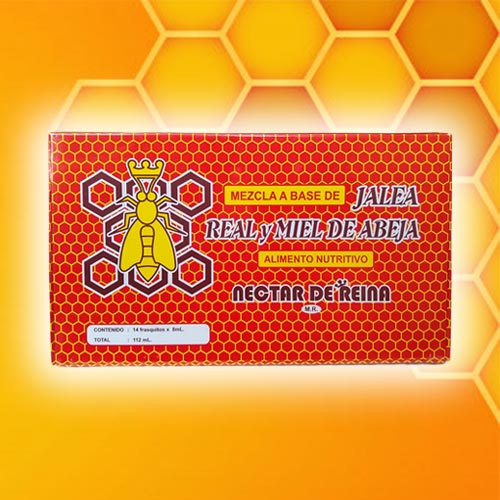
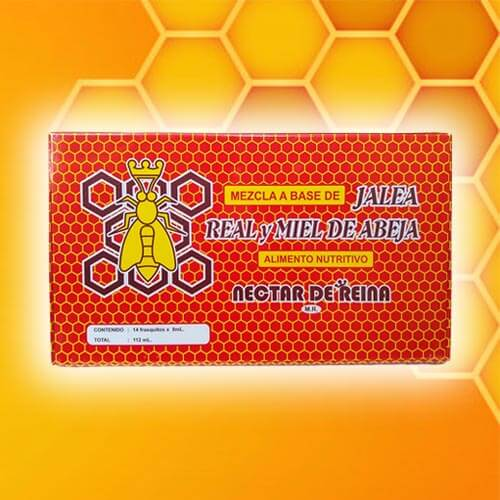
optimize images and add information

diff --git a/src/components/About.js b/src/components/About.js
@@ -12,8 +12,9 @@ export class About extends Component {
                     </div>
                     <div className="row">
                         <div className="col mx-3">
-                        <p>Apireyna EIRL es una empresa familiar que surgió en los años 90 en la ciudad de Chiclayo, en la zona norte del Perú. Su fundador, Don Ruperto Fuentes Verona, ferreñafano de nacimiento, encontró en los productos apícolas un negocio interesante que en aquellos años no era muy explotado.</p>          
-                        <p>Empezó con la comercialización de la miel de abejas y poco a poco sumó a este negocio otros productos derivados como la cera de abejas. De ahí en adelante se dedicó a la comercialización de miel y cera de abejas, acopiándola de diferentes zonas del norte del país y ofreciéndola a diversos clientes de la capital. Con el correr de los años fue abriéndose paso en las grandes empresas y laboratorios limeños que empezaron a requerir de sus productos.  Es así como empiezan la construcción de una planta de procesamiento apícola para la miel y cera de abejas y cumplir así con los altos estándares de calidad que pedían sus nuevos clientes.</p>
+                        <p><strong>Apireyna EIRL</strong> es una empresa familiar que surgió en los años 90 en la ciudad de Chiclayo, en la zona norte del Perú. Su fundador, Don Ruperto Fuentes Verona, ferreñafano de nacimiento, fue atraído por los productos provenientes de las abejas y poco a poco empezó una actividad que se convirtió en su pasión.</p>          
+                        <p>Empezó con la venta de la miel de abejas y progresivamente sumó a esta actividad  otros productos derivados como la cera de abejas y el polen de abejas, acopiándola de diferentes zonas del norte del país y ofreciéndola a diversos clientes de la capital. Con el correr de los años fue abriéndose paso en importantes empresas y tiendas naturistas que empezaron a requerir sus productos.</p>
+                        <p>Es así como empiezan la construcción de una planta de procesamiento apícola para cumplir así con los nuevos estándares de calidad que exigían sus potenciales clientes.</p>
                         </div>
                     </div>
                 </div>
@@ -26,8 +27,8 @@ export class About extends Component {
                     </div>
                     <div className="row">
                         <div className="col mx-3">          
-                        <p>Actualmente la legislación sanitaria del Perú obliga a que toda planta de alimentos debe tener implementado el Sistema HACCP para ser autorizada, basado en el cumplimiento de la norma RM 449-2006/ MINSA “Norma sanitaria para la aplicación del sistema HACCP en la fabricación de alimentos y bebidas; y la modificación del DS007-98 SA e Incorporación del DS 004-2014 SA Art.58B para certificación de Principios Generales de Higiene (PGH)”. Es por eso que APIREYNA EIRL basa sus servicios en mantener y cumplir los estándares de calidad que se enmarcan dentro de los estándares higiénicos sanitarios y de buenas prácticas de manufactura requeridos por las normas nacionales e internacionales.</p>
-                        <p>En la actualidad los clientes son más demandantes en cuanto a sus requerimientos de certificaciones, gestión de la calidad e inocuidad, es por eso que se presentó el proyecto en el concurso para la Mejora de la Calidad: “IMPLEMENTACION Y CERTIFICACION DEL SISTEMA DE GESTION DE LA CALIDAD HACCP EN LAS LINEAS DE PRODUCTOS APÍCOLAS: MIELES Y CERAS”, en el cual <strong>APIREYNA EIRL fue uno de los ganadores</strong> del cofinanciamiento y en junio del 2017 se dio inicio al convenio M° 129-FIDECOM-INNOVATEPERU-CMCEI-2017.</p>
+                        <p>Para atender un mercado y clientes más demandantes en cuanto a los requerimientos de certificaciones, gestión de la calidad e inocuidad, <strong>Apireyna EIRL</strong> se presentó al concurso para la Mejora de la Calidad de Innóvate Perú con el proyecto “Implementación y certificación del sistema de gestión de la calidad HACCP en las líneas de productos apícolas: mieles y ceras” y fue uno de los ganadores obteniendo el cofinanciamiento e iniciando en junio del 2017 el convenio M°129-FIDECOM-INNOVATEPERU-CMCEI-2017.</p>
+                        <p>Actualmente la legislación sanitaria del Perú obliga a que toda planta de alimentos debe tener implementado el Sistema HACCP para ser autorizada, basado en el cumplimiento de la norma RM 449-2006/MINSA Norma sanitaria para la aplicación del sistema HACCP en la fabricación de alimentos y bebidas; y la modificación del DS007-98 SA e Incorporación del DS 004-2014 SA Art.58B para certificación de Principios Generales de Higiene (PGH). </p>
                         </div>
                     </div>
                 </div>
@@ -40,10 +41,23 @@ export class About extends Component {
                     </div>
                     <div className="row">
                         <div className="col mx-3">
-                        <p>La implementación del sistema HACCP dentro de la empresa estuvo a cargo del coordinador del Proyecto, el Mg. en Agronegocios, Ing. Dante Fuentes Cabrera, y por el asesor externo de la planta el Ing. Juan Carlos Albines Larrea de la empresa ESJC dedicada a la implementación de sistemas de gestión de calidad e inocuidad de alimentos y bebidas en Lambayeque.
-                        </p>
-                        <p>El proceso duró alrededor de año y medio durante el cual se realizaron diversas inversiones en infraestructura, adquisiciones de equipos, maquinarias y capacitación constante al equipo de trabajo.  Logrando finalmente la <strong>Certificación HACCP y BPM,</strong> por parte de <strong>Kiwa BCS Öko-Garantie Perú SAC</strong>
-                        </p>
+                        <p><strong>Apireyna EIRL</strong> basa sus servicios en mantener y cumplir los estándares de calidad que se enmarcan dentro de los estándares higiénicos sanitarios y de buenas prácticas de manufactura requeridos por las normas nacionales e internacionales.</p>
+                        <p>La implementación del sistema HACCP dentro de la empresa estuvo a cargo del coordinador del Proyecto, el Mg. en Agronegocios, Ing. Dante Fuentes Cabrera, y por el asesor externo de la planta el Ing. Juan Carlos Albines Larrea de la empresa ESJC dedicada a la implementación de sistemas de gestión de calidad e inocuidad de alimentos y bebidas en Lambayeque.</p>
+                        <p>El proceso duró alrededor de año y medio durante el cual se realizaron diversas inversiones en infraestructura, adquisiciones de equipos, maquinarias y capacitación constante al equipo de trabajo. Logrando finalmente la <strong>Certificación HACCP y BPM,</strong> por parte de <strong>Kiwa BCS Öko-Garantie Perú SAC.</strong></p>
+                        </div>
+                    </div>
+                </div>
+
+                <div className="container mb-2 section-inner2">
+                    <div className="row">
+                        <div className="col mx-3">
+                            <h2>Responsabilidad Social</h2>
+                        </div>
+                    </div>
+                    <div className="row">  
+                        <div className="col mx-3">
+                        <p>Para <strong>Apireyna EIRL</strong> es importante la responsabilidad social, conscientes de que vivimos insertos en una comunidad global, todos tenemos la responsabilidad de cumplir y ayudar a nuestro entorno social.</p>          
+                        <p>Por ello, nos hemos asociado con apicultores de las regiones de la zona norte de Lambayeque a los que compramos su miel a precios justos, asesorándolos y capacitándolos en buenas prácticas de manufactura e higiene, y motivándolos a seguir creciendo en esta actividad, de esta manera colaboramos para que la apicultura en el Perú sea más moderna, rentable y de calidad.</p>
                         </div>
                     </div>
                 </div>

diff --git a/src/components/Navbar.js b/src/components/Navbar.js
@@ -1,13 +1,13 @@
 import React, { Component } from "react";
 // import { Link } from 'react-router-dom'
-import logo from '../assets/images/logo.png'
+import logo from '../assets/images/logo_api.png'
 
 export class Navbar extends Component {
   render() {
     return (
-      <nav className="navbar navbar-expand-md navbar-light sticky-top navbar-custom">
+      <nav className="navbar navbar-expand-md navbar-dark sticky-top navbar-custom">
       <div className="container">
-        <img src={ logo } className='navbar__logo' alt='logo' /><h3>APIREYNA EIRL</h3>
+        <img src={ logo } className='navbar__logo' alt='logo' /><h3 className="Navbar__title">APIREYNA EIRL</h3>
         <button className="navbar-toggler" type="button" data-toggle="collapse" data-target="#navbarNav" aria-controls="navbarSupportedContent" aria-expanded="false" aria-label="Toggle navigation">
           <span className="navbar-toggler-icon"></span>
         </button>

diff --git a/src/assets/styles/custom.scss b/src/assets/styles/custom.scss
@@ -1,10 +1,11 @@
 
 $violet-color: #fceffc;
 $yellow-color: #fce38a;
+$red-color: #e0500d;
 $dark-color: #28464B;
 
 .navbar .navbar-nav .nav-link.active{
-  border-bottom: solid 2px black;
+  border-bottom: solid 2px white;
   font-weight: 700;
 }
 
@@ -63,6 +64,10 @@ p{
   padding: 20px 40px;
 }
 
+.section-inner3{
+  padding: 30px 50px 30px 50px;
+}
+
 @media (max-width: 576px) { 
   h1{
     font-size: 1.8rem;
@@ -95,10 +100,14 @@ p{
   .section-inner2{
     padding: 8px 12px;
   }
+
+  .section-inner3{
+    padding: 5px 0;
+  }
 }
 
 .navbar-custom{
-  background-color: $yellow-color;
+  background-color: $red-color;
 }
 
 .navbar .nav-link{
@@ -107,6 +116,10 @@ p{
 
 .navbar__logo{
   width: 75px;
+}
+
+.Navbar__title{
+  color: $violet-color;
 }
 
 .p-line {

diff --git a/src/components/Header.js b/src/components/Header.js
@@ -10,7 +10,7 @@ export class Header extends Component {
     render() {
         return (
             <div id="inicio" className='section'>
-                <div className="container mt-1 mb-2 section-inner">
+                <div className="container mt-1 mb-2 section-inner3">
 
                     <div className="row">
                         <div className="col">
